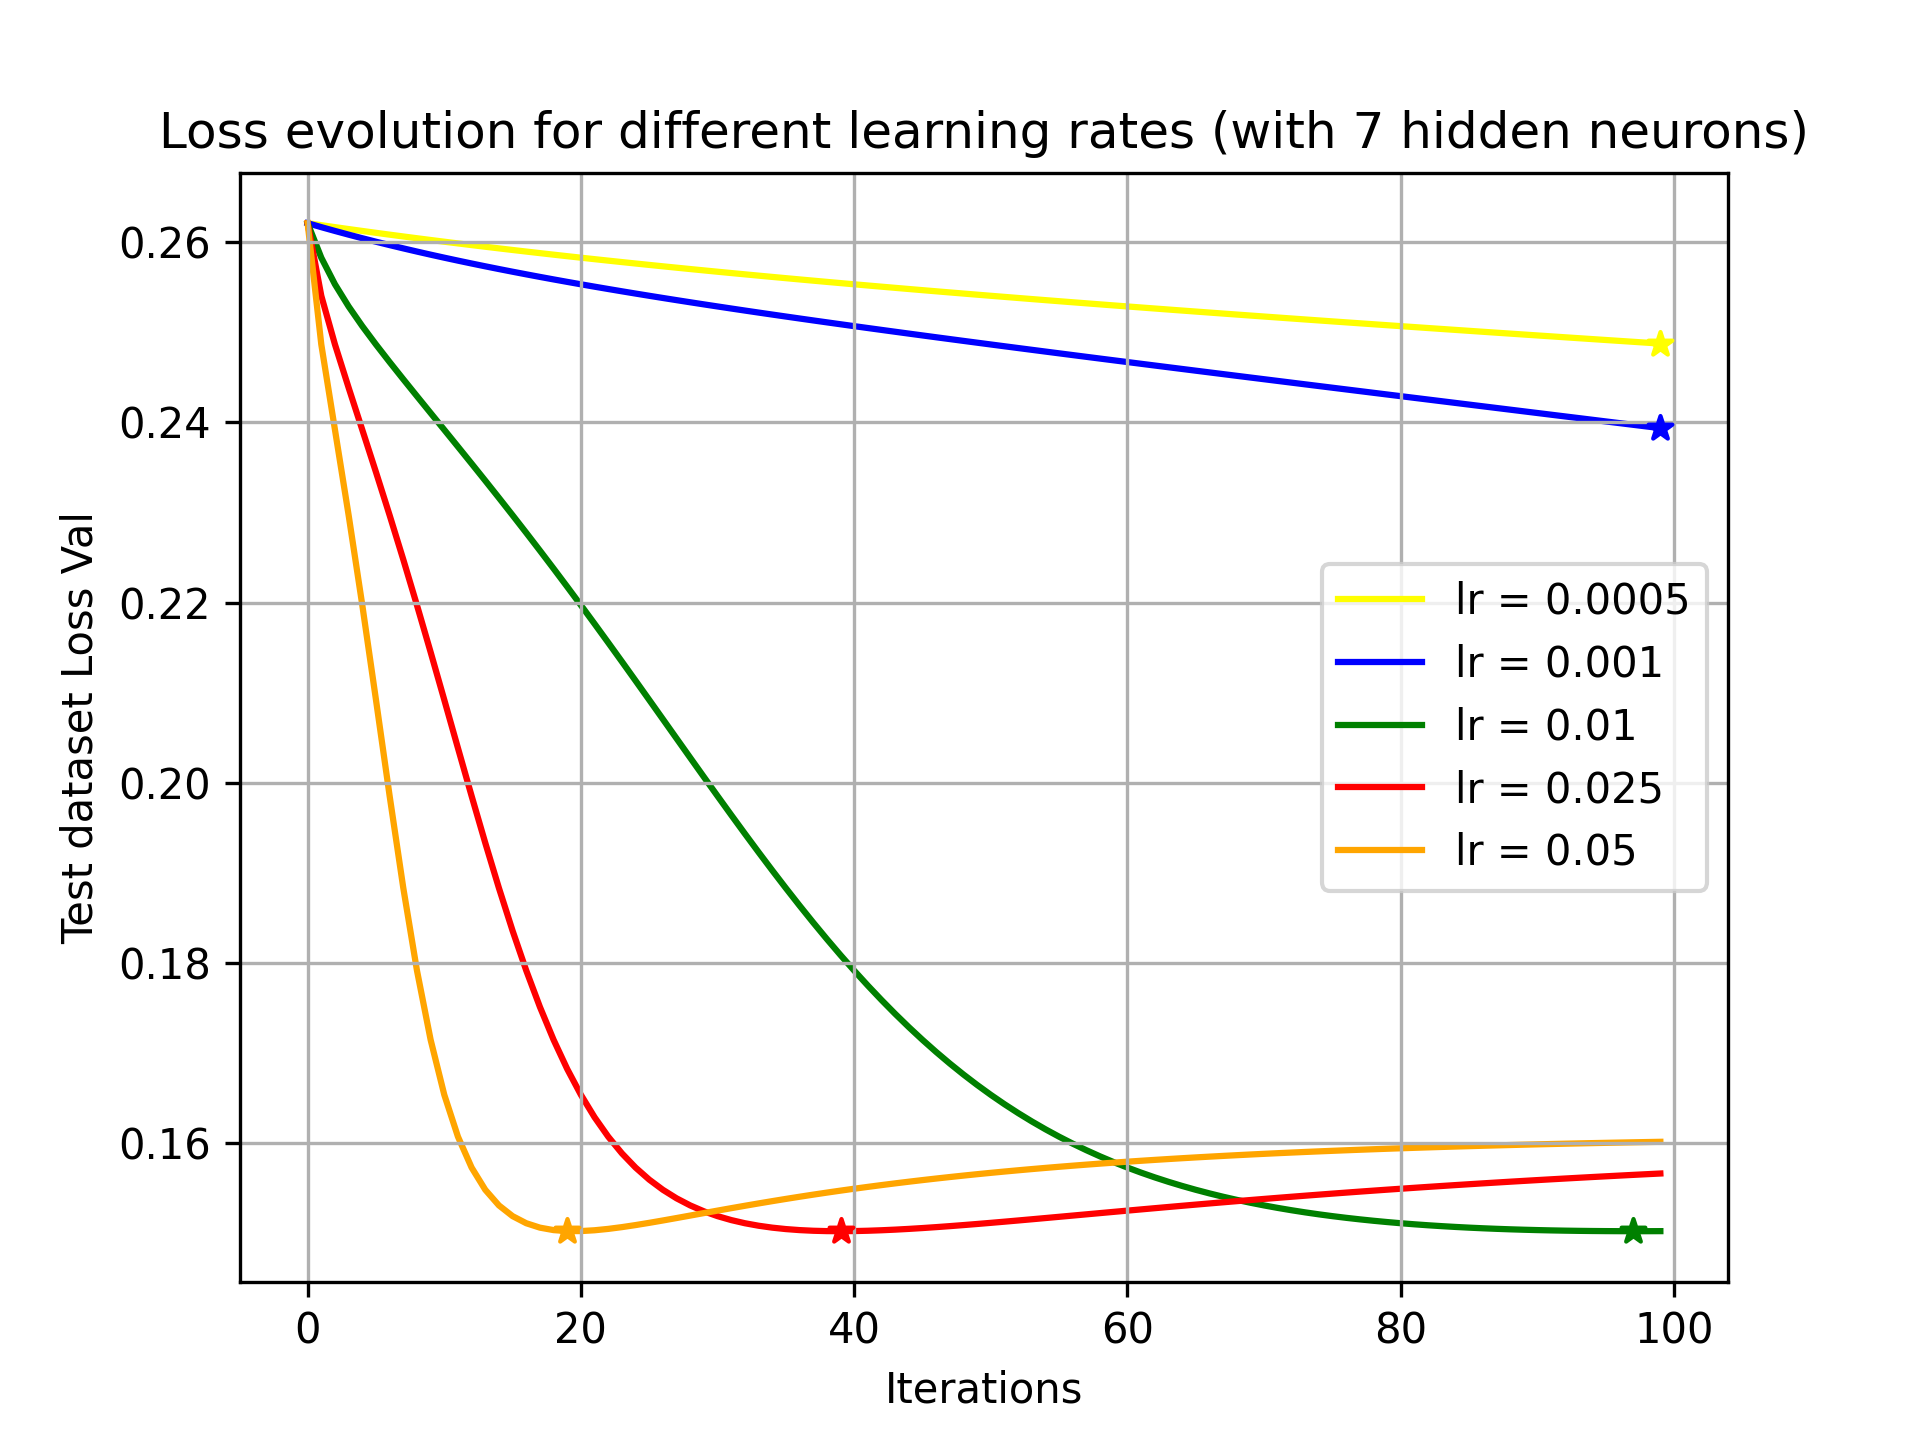
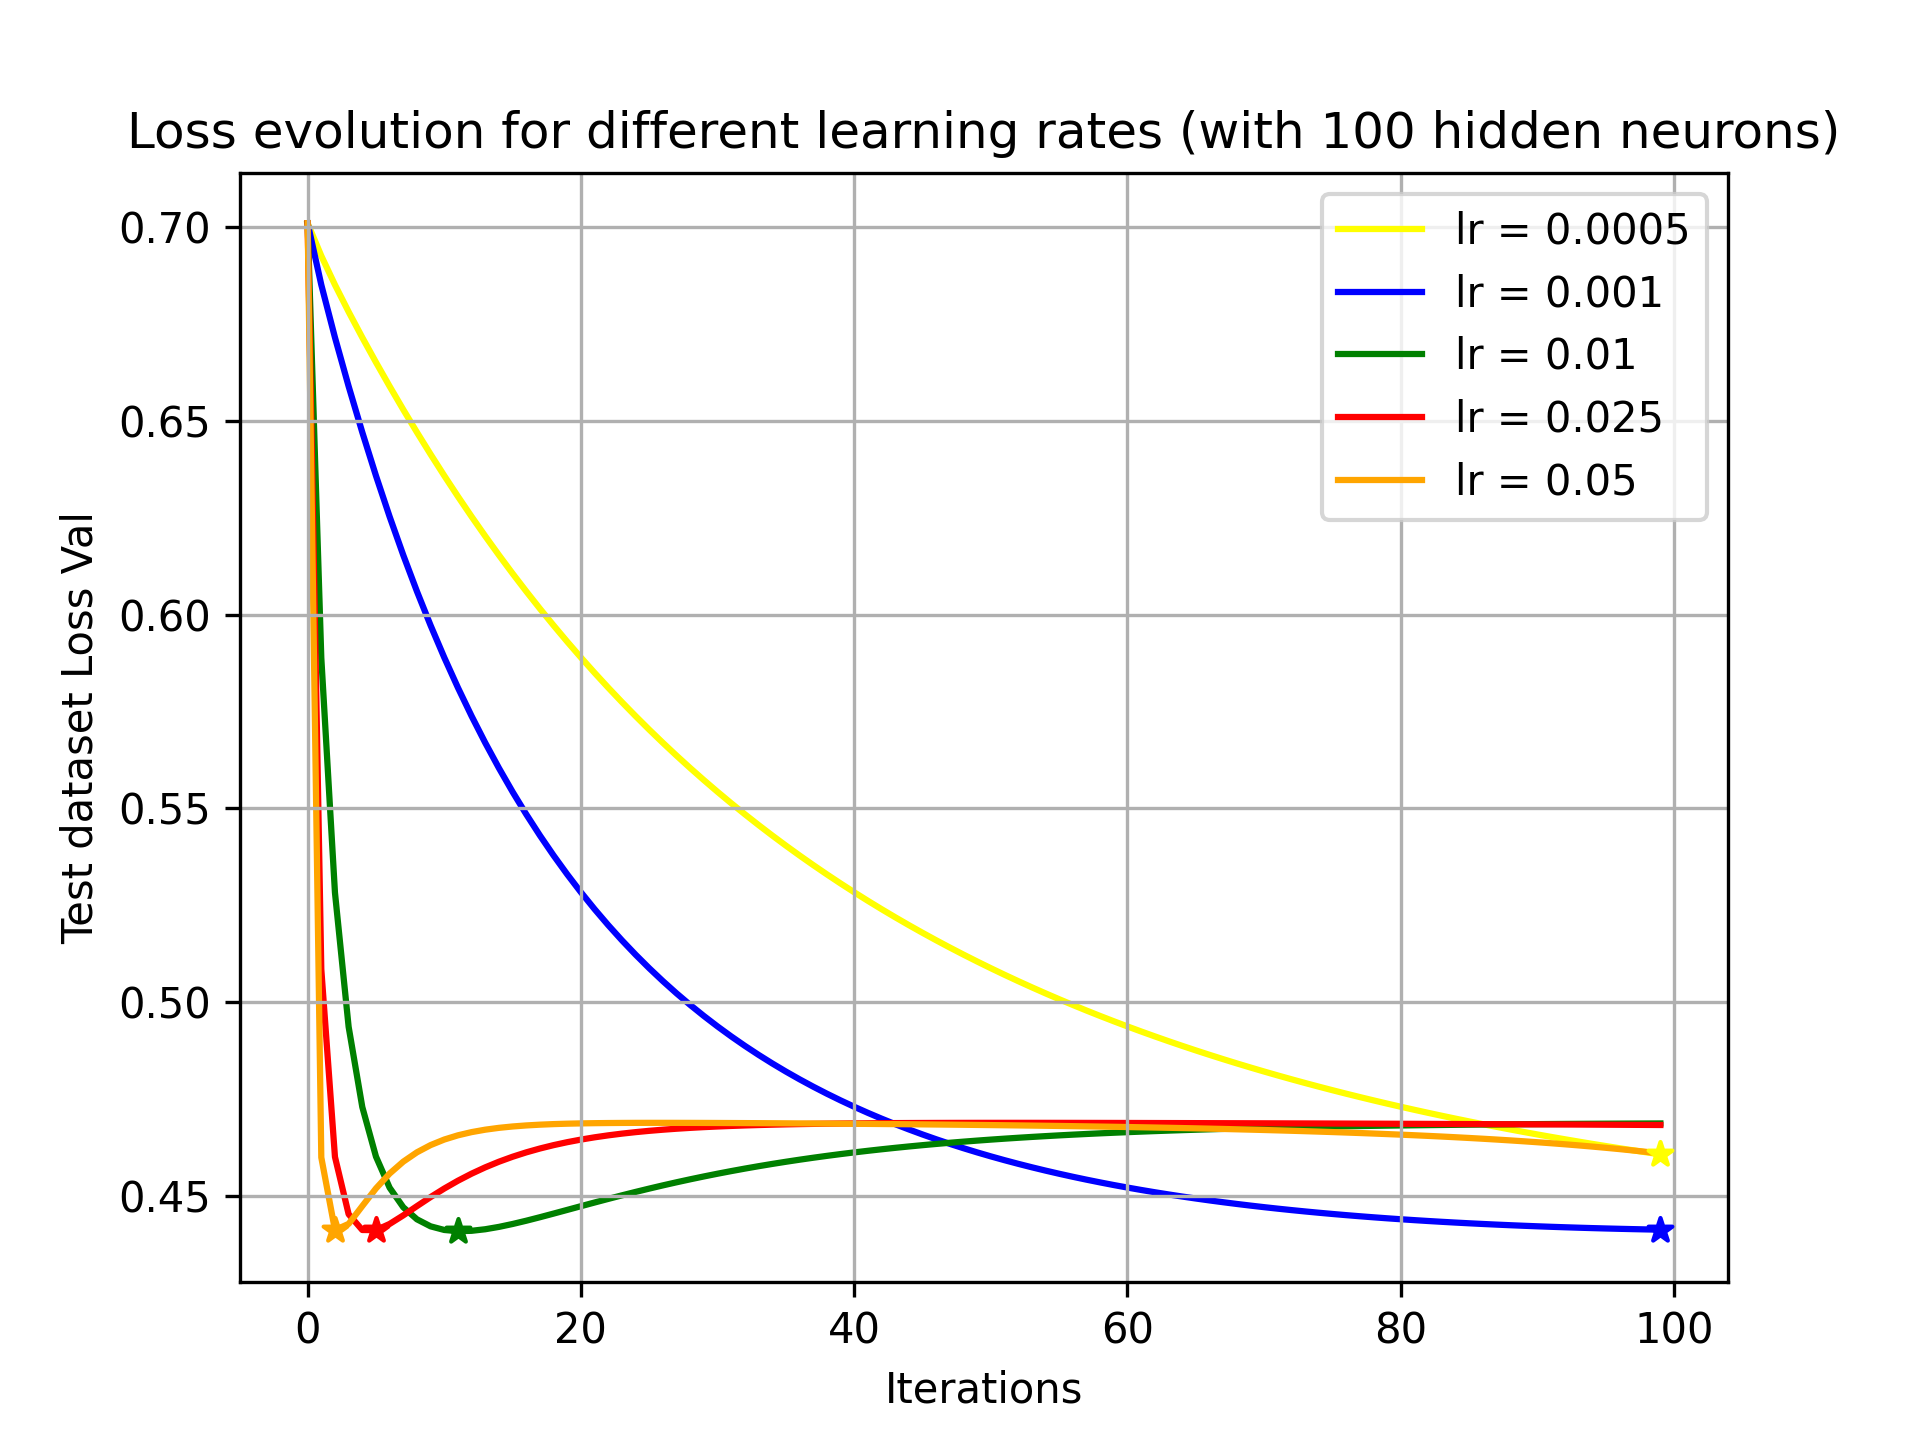
Report ex3 data and images changed to match BCELoss results

diff --git a/P1/Report.md b/P1/Report.md
@@ -86,7 +86,7 @@ The following image shows the evolution of the loss function with respect to the
 
 <img src="Results/fig9.png" alt="fig9" style="zoom:33%;" />
 
-The more hidden neurons the network has, the less number of iterations are required for the error to decrease. That is, the less number of iterations are required for the network to be able to properly classify the testing dataset. By observing the graph, we can see a pattern regardless of the number of neurons the network has: after reaching the minimum loss value, in all cases overfitting starts to be visible from a graphical point of view. However, we need to be aware of the very small range of values in which the error oscilates as iterations increase $[\approx0.146, \approx 0.149]$. Therefore, we can consider this overfitting to be negligible.
+The more hidden neurons the network has, the less number of iterations are required for the error to decrease. That is, the less number of iterations are required for the network to be able to properly classify the testing dataset. By observing the graph, we can see a pattern regardless of the number of neurons the network has: after reaching the minimum loss value, in all cases overfitting starts to be visible from a graphical point of view. However, we need to be aware of the very small range of values in which the error oscilates as iterations increase $[\approx0.45, \approx 0.48]$. Therefore, we can consider this overfitting to be negligible.
 
 In a first observation, it seems like adding more neurons is better, as a lower error value is reached with fewer iterations. However, what is important is not the number of iterations that are needed to reach the point of minimum error, but the training time required to reach that point.
 
@@ -94,14 +94,14 @@ Therefore, to obtain a better understanding of how our model works with the diff
 
 | Number of hidden neurons | Minimum Error value | Time (ms)           |
 | ------------------------ | ------------------- | ------------------- |
-| 3                        | 0.154               | 0.24                |
-| 7                        | 0.152               | 0.27 |
-| 12                       | 0.152               | 0.25  |
-| 15                       | 0.148               | 0.30  |
-| 18                       | 0.147               | 0.31 |
-| 20                       | 0.147               | 0.26 |
-| 50                       | 0.147               | 0.32    |
-| 100                      | 0.145               | 0.36 |
+| 3                        | 0.457 | 0.22602081298828125 |
+| 7                        | 0.460 | 0.22721290588378906 |
+| 12                       | 0.457 | 0.2868175506591797 |
+| 15                       | 0.447 | 0.3139972686767578 |
+| 18                       | 0.446 | 0.22101402282714844 |
+| 20                       | 0.442 | 0.23412704467773438 |
+| 50                       | 0.442 | 0.2491474151611328 |
+| 100                      | 0.438 | 0.31495094299316406 |
 
 > **NOTE**: These time results have been achieved with a 2015 iMac, 4 cores 4 GHz Intel Core i7 CPU and 32 GB 1867 MHz DDR3 memory. Resluts may vary from one machine to another.
 
@@ -123,11 +123,11 @@ To be able to decide which learning rate better suits for the binary classificat
 
 | Learning rate | Minimum Error value | Time (ms)              |
 | ------------- | ------------------- | ---------------------- |
-| 0.0005        | 0.167 | 0.30  |
-| 0.001         | 0.152 | 0.30 |
-| 0.01          | 0.147 | 0.29  |
-| 0.025         | 0.147 | 0.29 |
-| 0.05          | 0.147 | 0.30  |
+| 0.0005        | 0.460 | 0.273 |
+| 0.001         | 0.441 | 0.267 |
+| 0.01          | 0.440 | 0.264 |
+| 0.025         | 0.441 | 0.264 |
+| 0.05          | 0.441 | 0.353 |
 
 > **NOTE**: These time results have been achieved with a 2015 iMac, 4 cores 4 GHz Intel Core i7 CPU and 32 GB 1867 MHz DDR3 memory. Resluts may vary from one machine to another.
 
